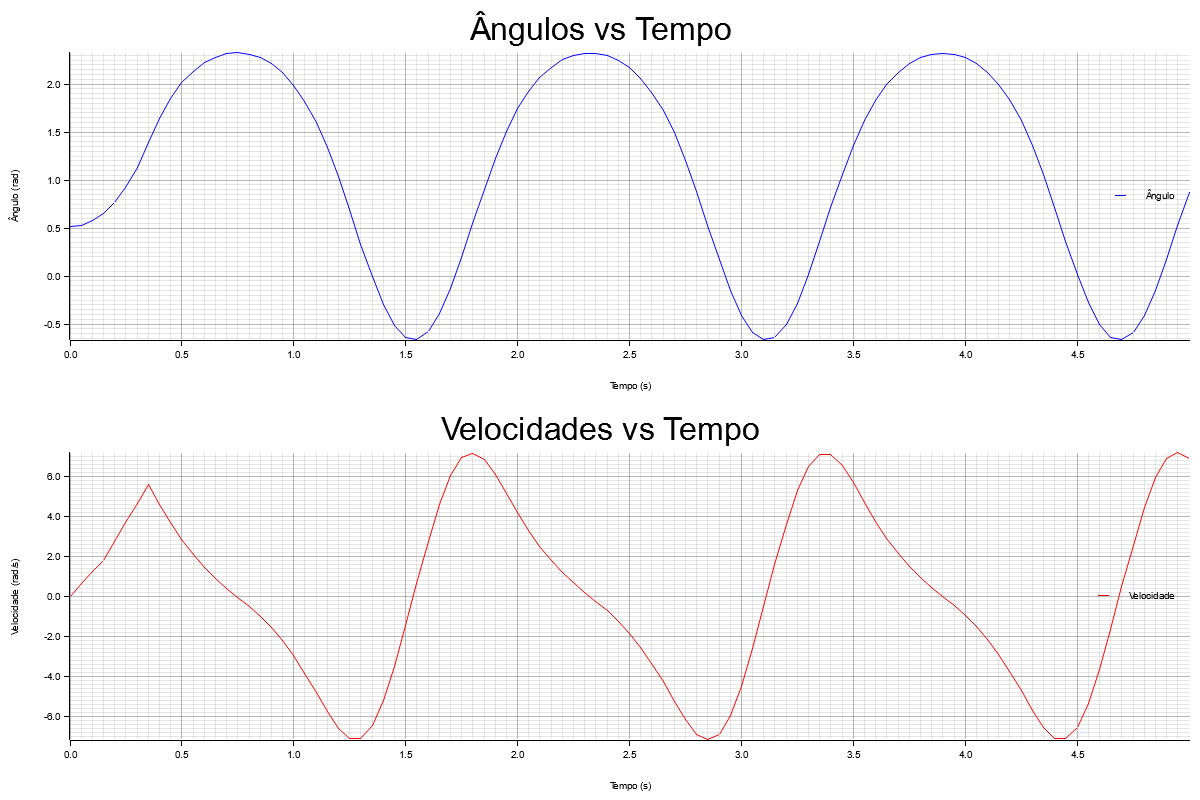
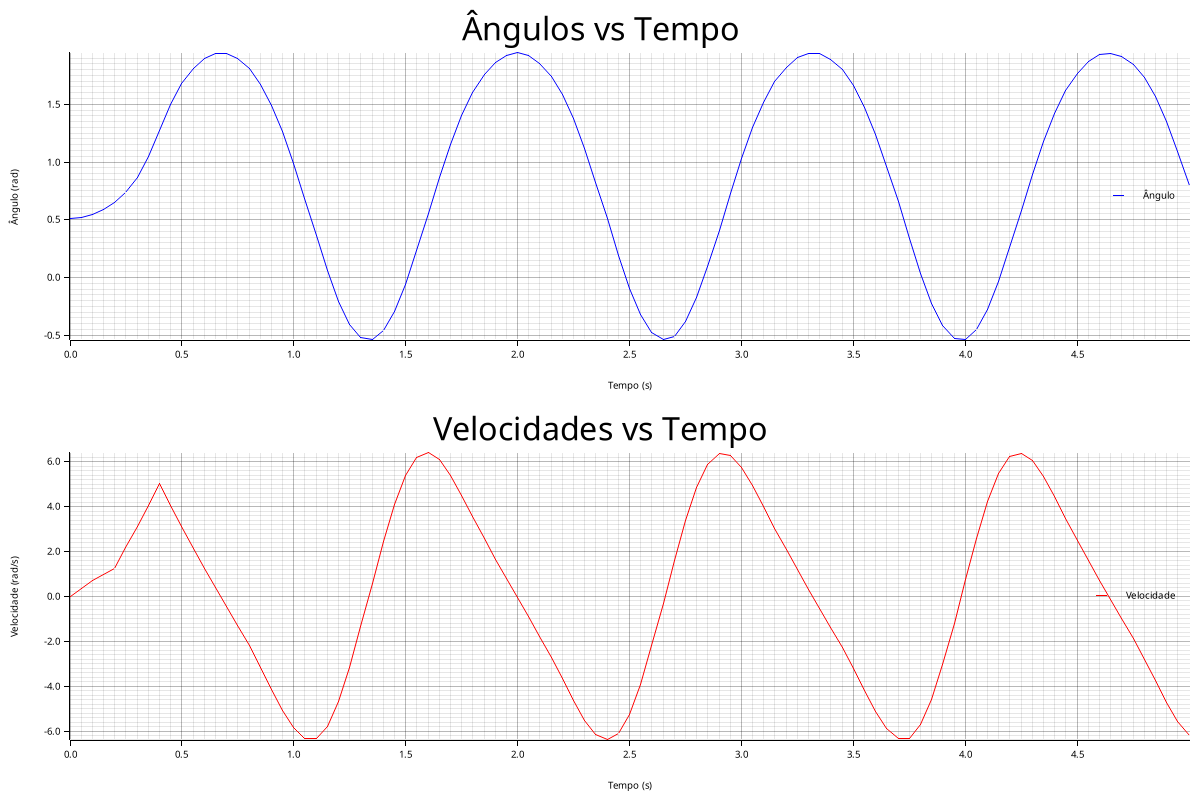
🐛 Fix PM & H in runge_kutta.rs
#

diff --git a/src/runge_kutta.rs b/src/runge_kutta.rs
@@ -1,10 +1,6 @@
 use std::f64::consts::PI;
-// implementação do Runge Kutta
 
-const F: f64 = 60.0; // Frequência em Hz
-const H: f64 = 9.0; // 
-const PM: f64 = 0.9; // Potência mecânica
-
+use crate::values::*;
 // Implementação do Runge Kutta com termo de amortecimento D
 pub fn runge_kutta_with_d(
     delta_w_ini: f64,
@@ -13,22 +9,22 @@ pub fn runge_kutta_with_d(
     delta_t: f64,
     d: f64,
 ) -> (f64, f64) {
-    let m = H; // Mantendo a inércia como H
+    let m = H / (PI * F); // Mantendo a inércia como H
 
     let k1 = delta_w_ini * delta_t;
     let l1 =
-        (PI * F / m) * (PM - pe * delta_n_ini.sin()) * delta_t - (d / m) * delta_w_ini * delta_t;
+        (1.0 / m) * (PM - pe * delta_n_ini.sin()) * delta_t - (d / m) * delta_w_ini * delta_t;
 
     let k2 = (delta_w_ini + 0.5 * l1) * delta_t;
-    let l2 = (PI * F / m) * (PM - pe * (delta_n_ini + 0.5 * k1).sin()) * delta_t
+    let l2 = (1.0 / m) * (PM - pe * (delta_n_ini + 0.5 * k1).sin()) * delta_t
         - (d / m) * (delta_w_ini + 0.5 * l1) * delta_t;
 
     let k3 = (delta_w_ini + 0.5 * l2) * delta_t;
-    let l3 = (PI * F / m) * (PM - pe * (delta_n_ini + 0.5 * k2).sin()) * delta_t
+    let l3 = (1.0 / m) * (PM - pe * (delta_n_ini + 0.5 * k2).sin()) * delta_t
         - (d / m) * (delta_w_ini + 0.5 * l2) * delta_t;
 
     let k4 = (delta_w_ini + l3) * delta_t;
-    let l4 = (PI * F / m) * (PM - pe * (delta_n_ini + k3).sin()) * delta_t
+    let l4 = (1.0 / m) * (PM - pe * (delta_n_ini + k3).sin()) * delta_t
         - (d / m) * (delta_w_ini + l3) * delta_t;
 
     let delta_w = delta_w_ini + (l1 + 2.0 * l2 + 2.0 * l3 + l4) / 6.0;

diff --git a/src/main.rs b/src/main.rs
@@ -38,8 +38,8 @@ fn main() {
     let tr = model.get_x_best()[1];
     let delta_n_ini = (PM / PE1).asin();
     println!(
-        "Parâmetros finais: tab: {:.4}s, tr: {:.4}s, delta_n_ini: {:.6} rad",
-        tab, tr, delta_n_ini
+        "Parâmetros finais: tab: {:.4}s, tr: {:.4}s, delta_n_ini: {:.6} rad -> {:.4}°",
+        tab, tr, delta_n_ini, delta_n_ini.to_degrees()
     );
     let (tempos_finais, angulos_finais, velocidades_finais, cra_final, crr_final) = sim_pet_time(
         PE1,

diff --git a/src/pso_config.rs b/src/pso_config.rs
@@ -3,11 +3,11 @@ use pso_rs::Config;
 pub fn pso_config() -> (Config, Option<fn(f64) -> bool>) {
     let config = Config {
         dimensions: vec![2],
-        bounds: vec![(0.149999, 0.1500001), (0.15, 5.0)],
+        bounds: vec![(0.149999, 0.1500001), (0.15, 1.0)],
         c1: 2.05,
         c2: 2.05,
-        population_size: 10000,
-        t_max: 100000,
+        population_size: 1000,
+        t_max: 5000,
         ..Config::default()
     };
 

diff --git a/src/values.rs b/src/values.rs
@@ -1,7 +1,10 @@
 pub const PE1: f64 = 1.83333;
-pub const PE2: f64 = 0.61111;
+pub const PE2: f64 = 1.13491; 
 pub const PE3: f64 = 0.0;
+
 pub const PM: f64 = 0.9;
+pub const F: f64 = 60.0; // Frequência em Hz
+pub const H: f64 = 9.0; // Inércia do motor
 
 pub const DELTA_W_INI: f64 = 0.0;
 pub const T_MAX: f64 = 5.0;
